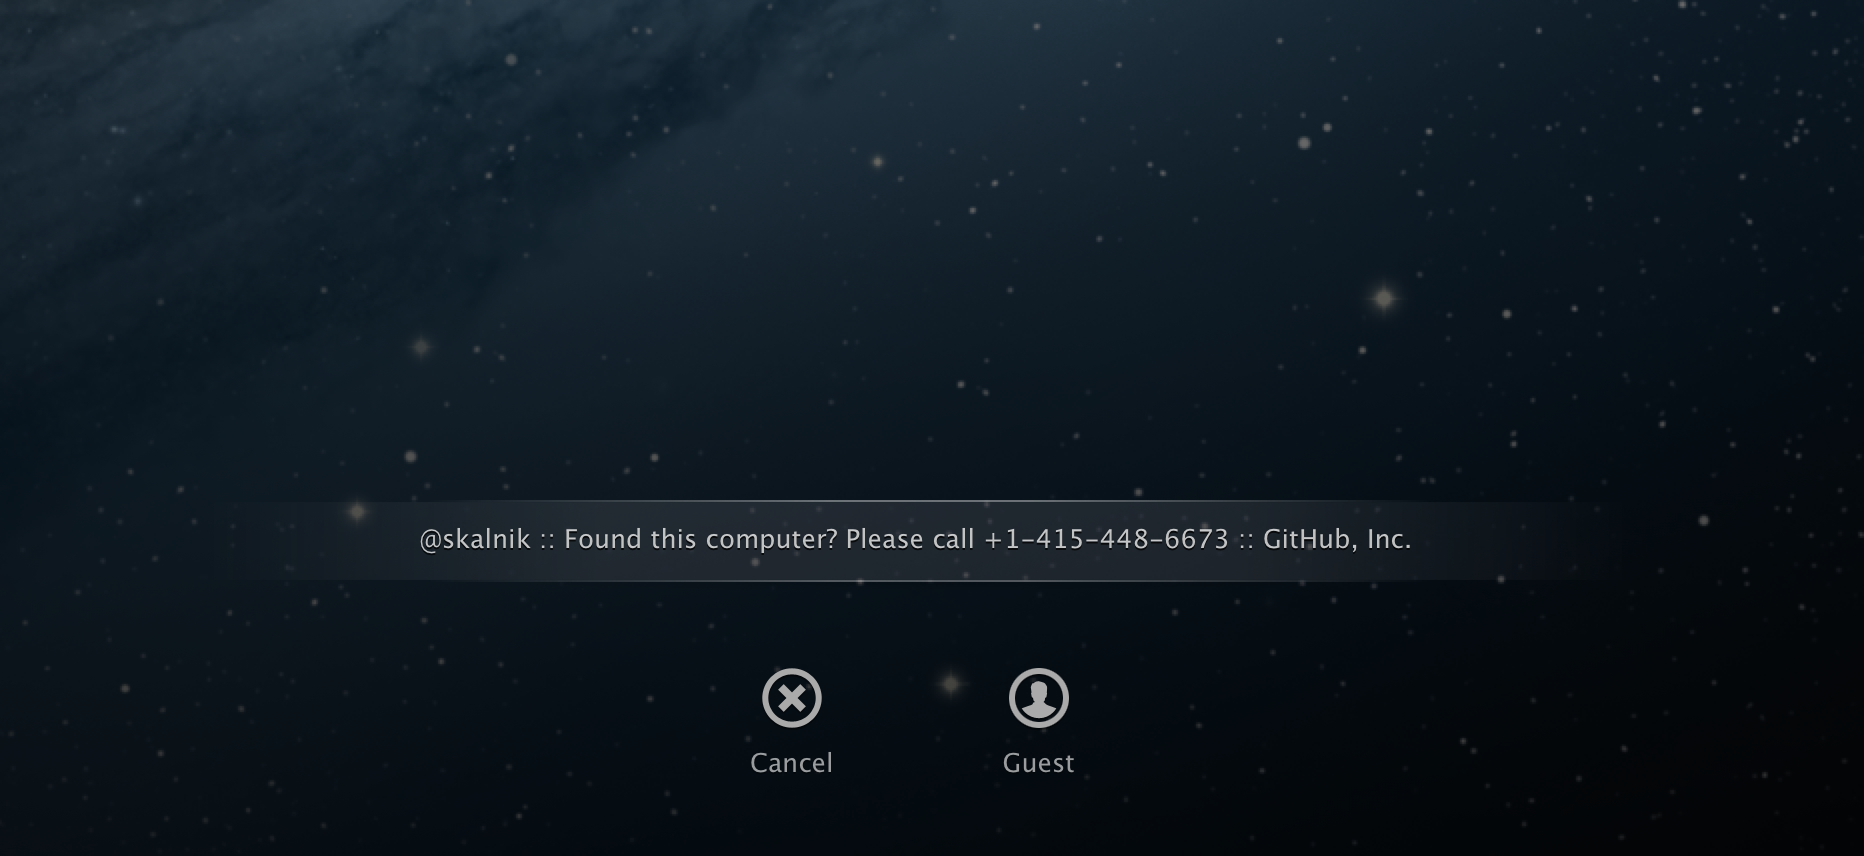
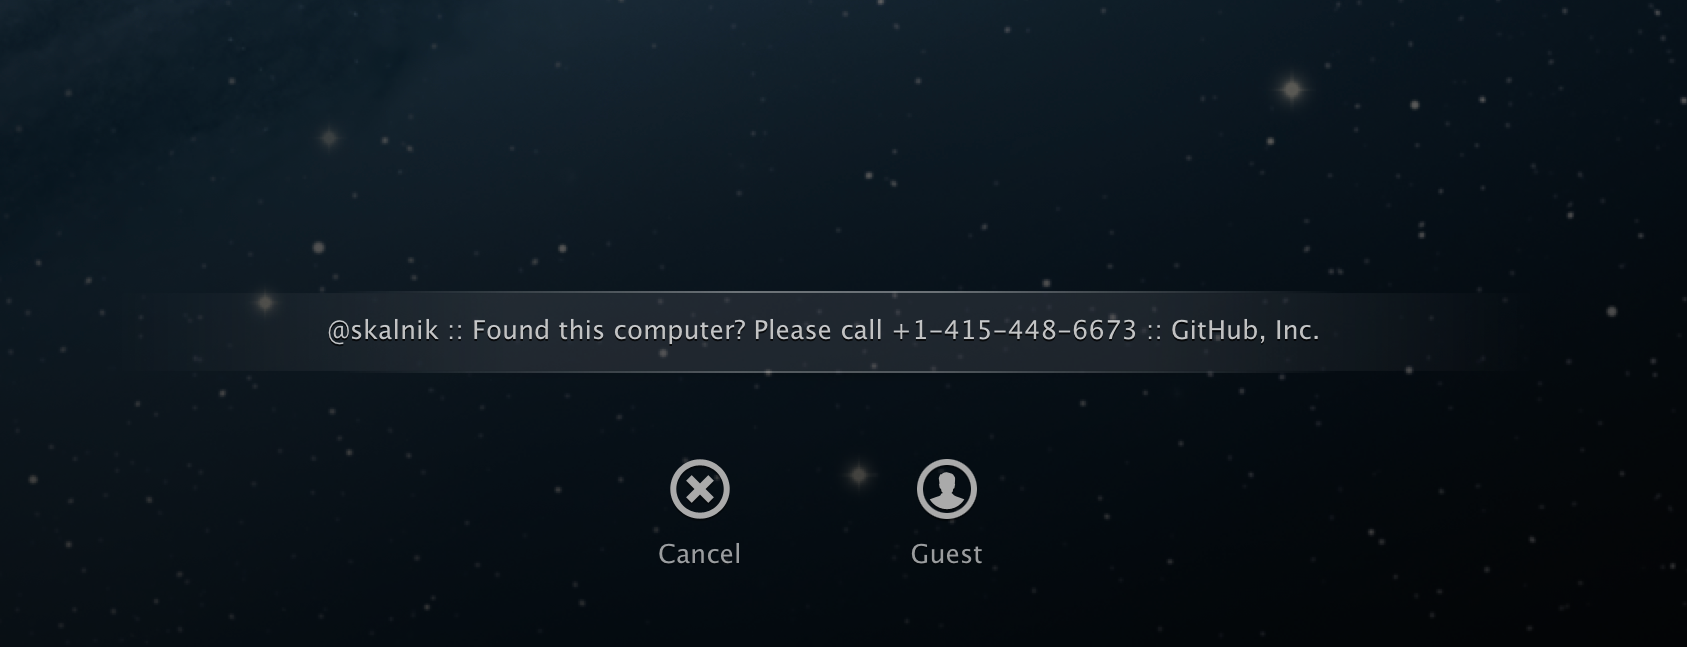
new screenshots

diff --git a/stylesheets/base.css b/stylesheets/base.css
@@ -173,15 +173,16 @@ a.download {
     border-radius: 12px;
     background-image: url("../images/screensaver.png");
     background-repeat: no-repeat;
-    background-position: center bottom;
-    background-size: 700px auto;
+    background-position: center center;
+    background-size: 630px auto;
     background-color: rgba(255, 255, 255, 0.4);
     margin: 0 3px 8px 3px;
-    box-shadow: inset 0 1px 2px rgba(0, 0, 0, 0.9), 0 1px 2px rgba(255, 255, 255, 0.4); }
+    box-shadow: inset 0 1px 1px rgba(0, 0, 0, 0.48), 0 1px 2px rgba(255, 255, 255, 0.4); }
   #bottom .terminal {
-    background-image: url("../images/terminal_2.png");
-    background-position: left center;
-    background-size: 480px auto; }
+    background-color: #27292C;
+    background-image: url("../images/terminal.png");
+    background-position: center center;
+    background-size: 402px auto; }
   #bottom p {
     font-size: 14px;
     width: 490px;

diff --git a/stylesheets/base.scss b/stylesheets/base.scss
@@ -223,18 +223,19 @@ a.download {
     border-radius: 12px;
     background-image: url('../images/screensaver.png');
     background-repeat: no-repeat;
-    background-position: center bottom;
-    background-size: 700px auto;
+    background-position: center center;
+    background-size: 630px auto;
     background-color: rgba(255,255,255,.4);
     margin: 0 3px 8px 3px;
-    box-shadow: inset 0 1px 2px rgba(0,0,0,.9), 
+    box-shadow: inset 0 1px 1px rgba(0,0,0,.48), 
                       0 1px 2px rgba(255,255,255,.4);
   }
 
   .terminal {
-    background-image: url('../images/terminal_2.png'); 
-    background-position: left center;
-    background-size: 480px auto;
+    background-color: #27292C;
+    background-image: url('../images/terminal.png'); 
+    background-position: center center;
+    background-size: 402px auto;
   }
 
   p {
